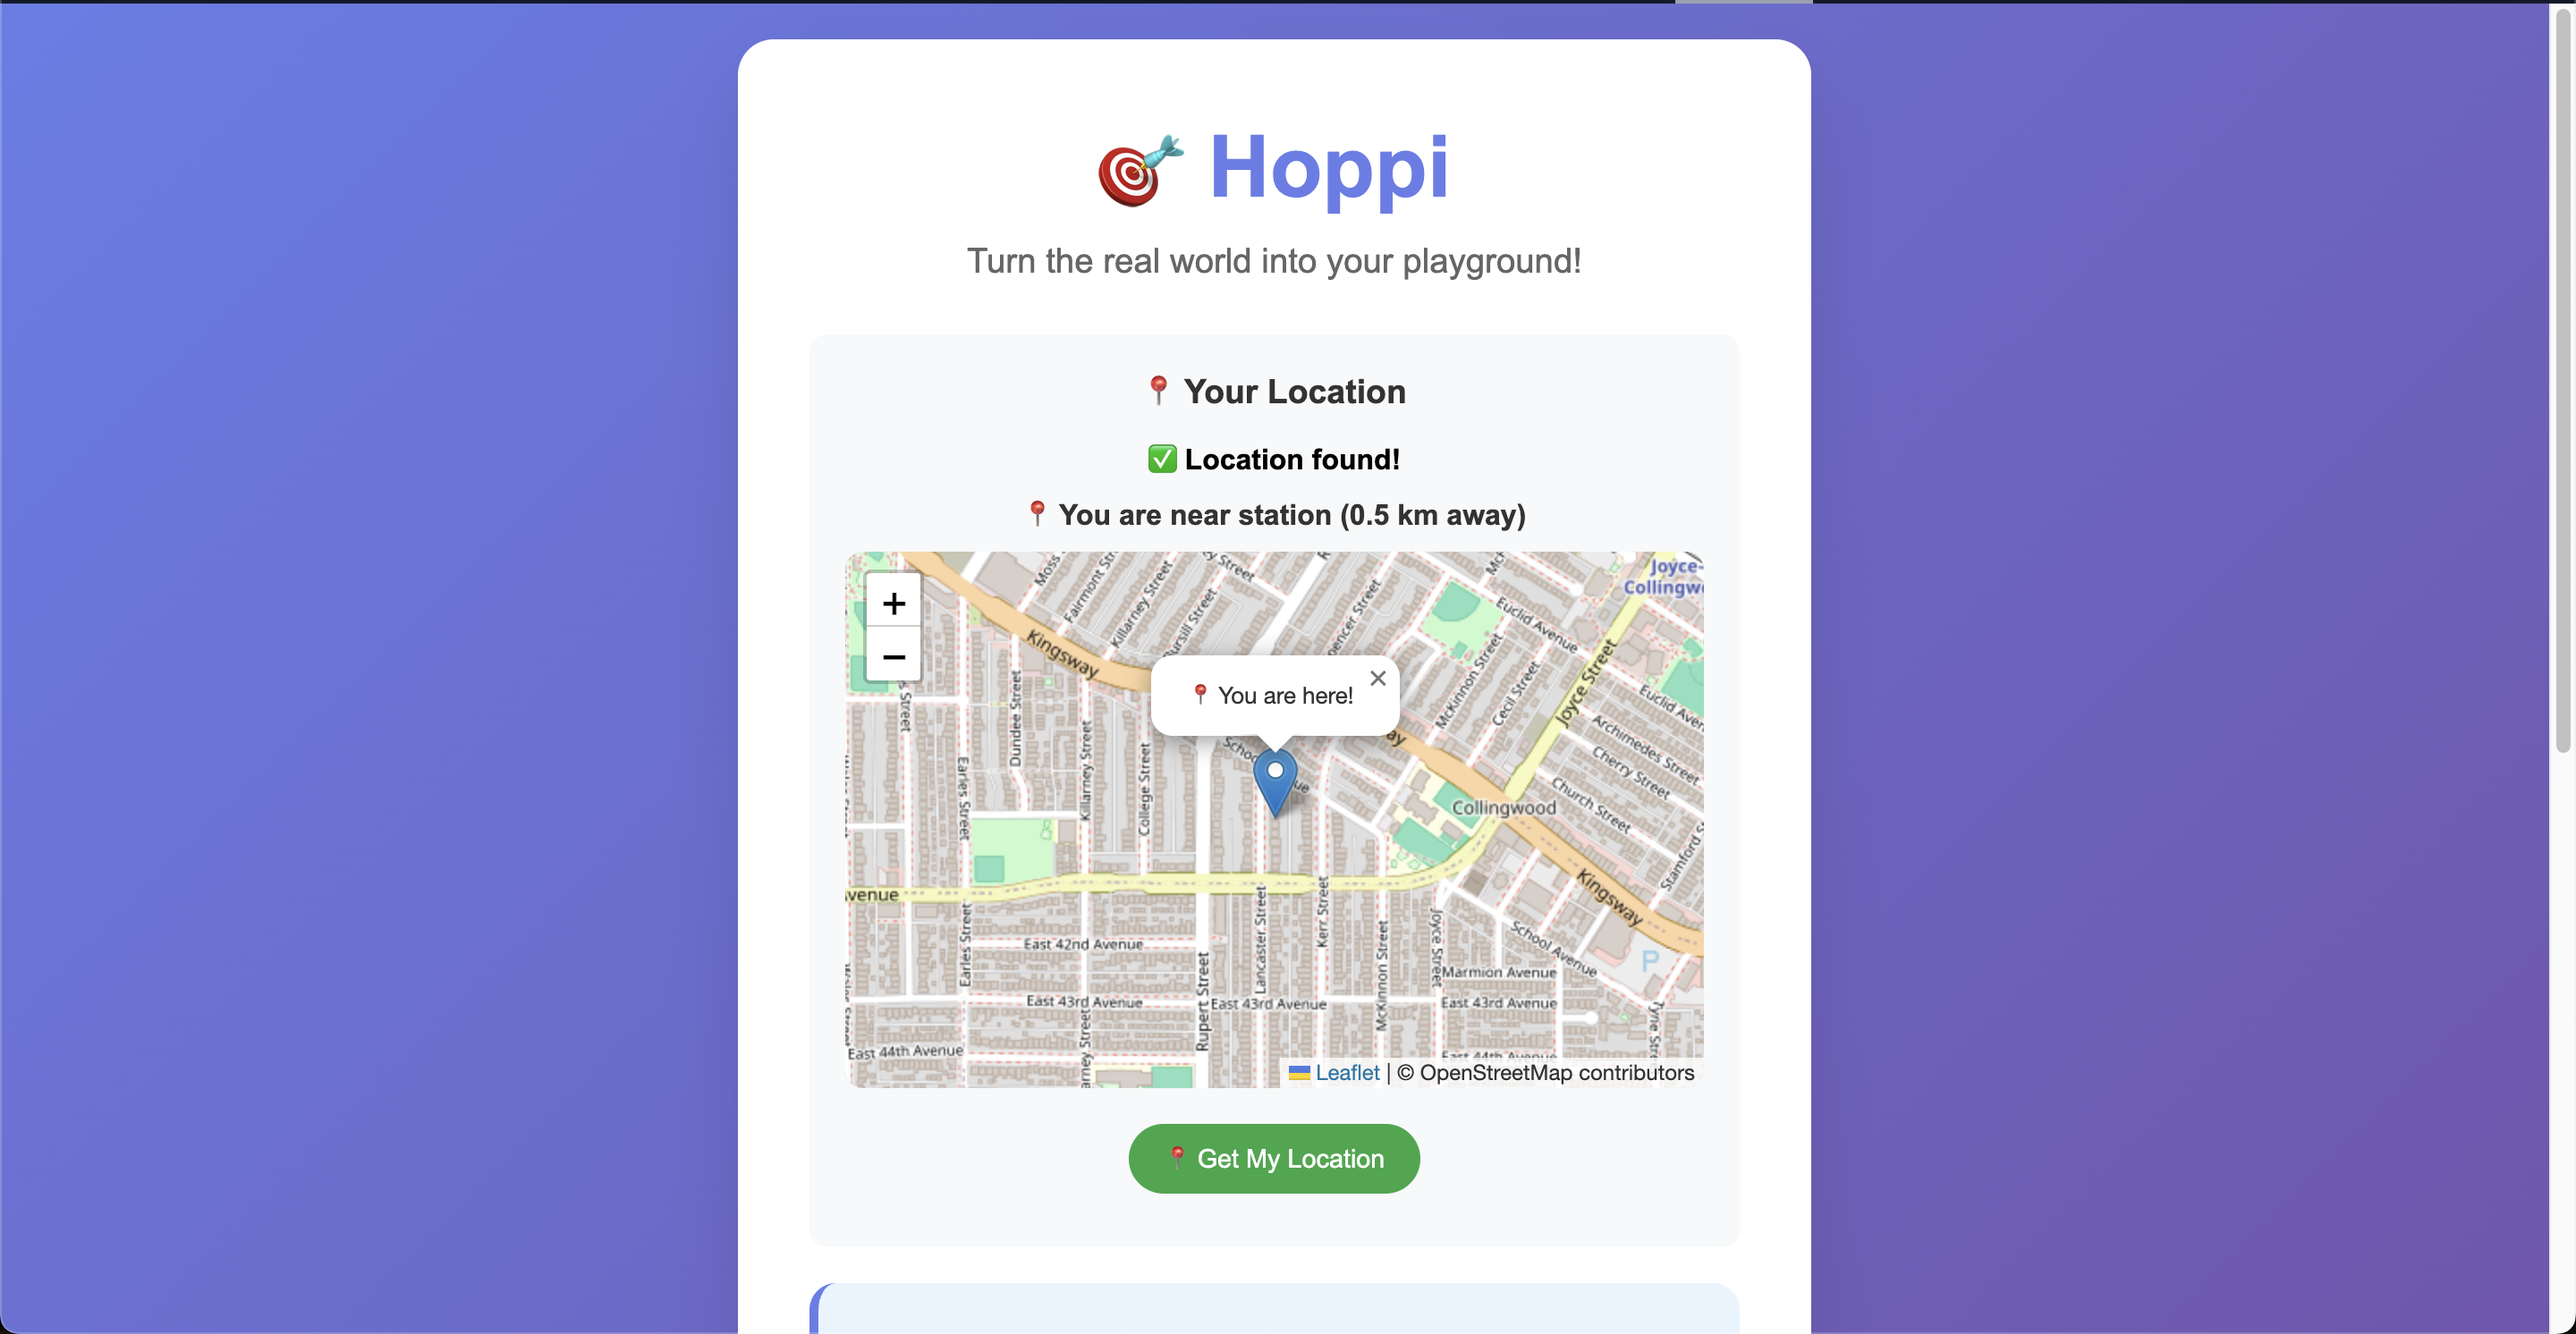
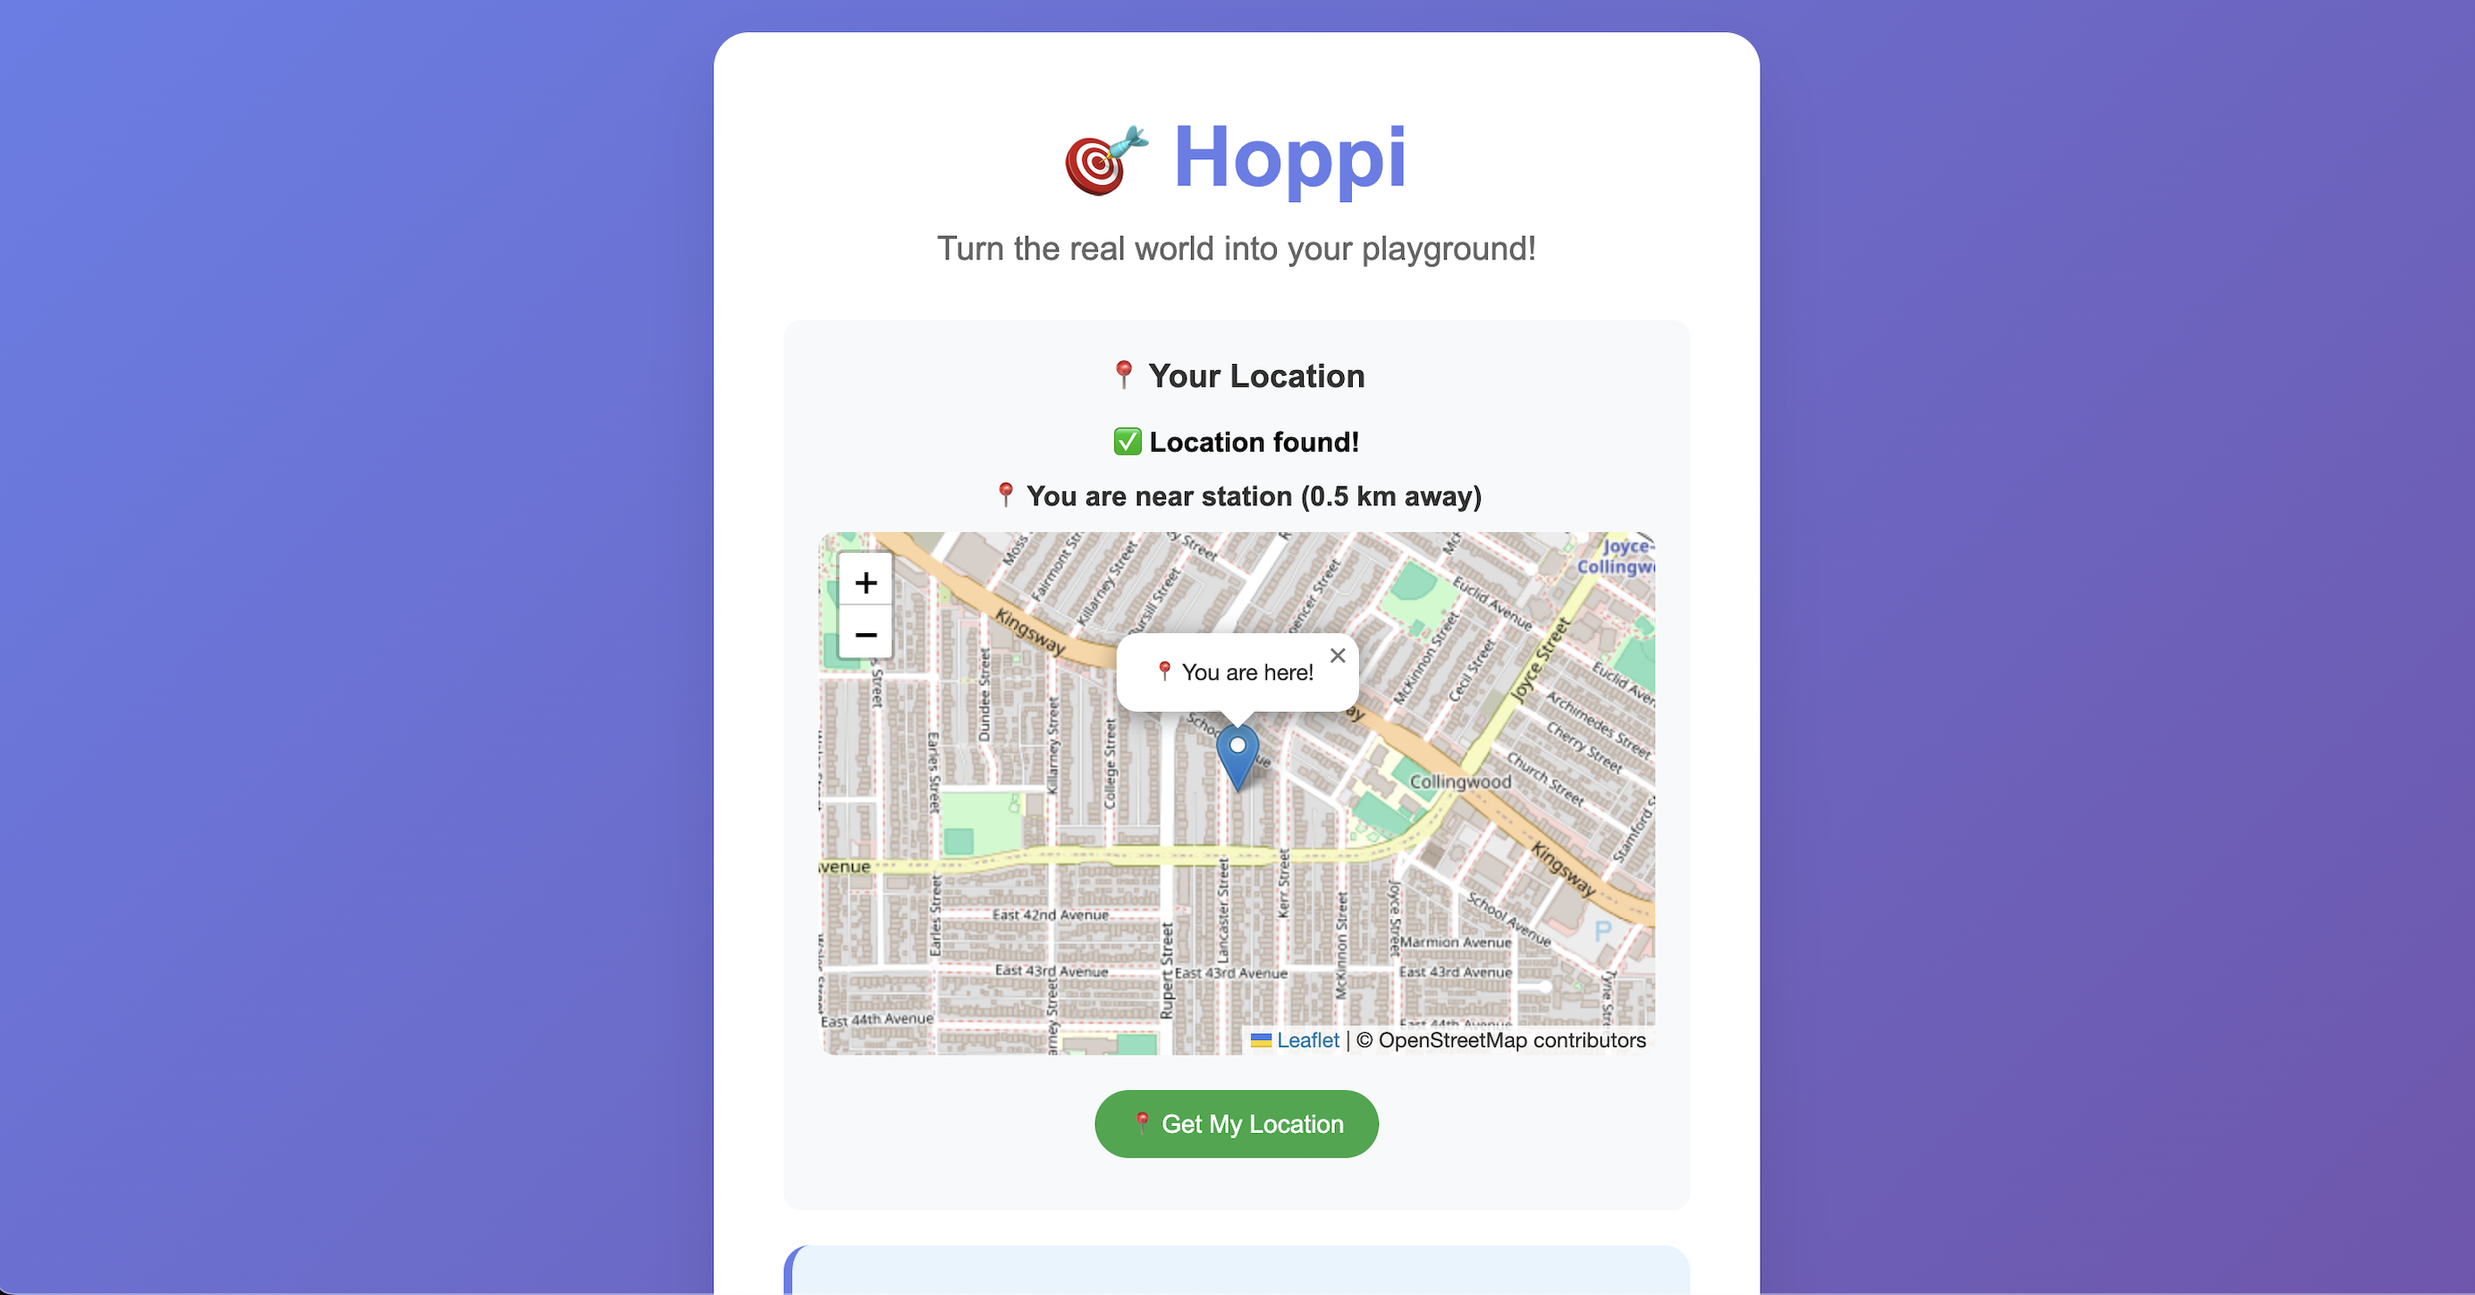
Update README.md and add assets for documentation

diff --git a/README.md b/README.md
@@ -6,8 +6,8 @@
 
 🔗 **Live Demo:** [Try Hoppi here](https://huggingface.co/spaces/klsin/Hoppi)  
 
-<p align="center">
-  <img src="assets/Cursor_Landing.png" alt="Cursor Landing Page" width="500" style="vertical-align: top;"/>
+<p align="left">
+  <img src="assets/Cursor_Landing.png" alt="Cursor Landing Page" width="650" style="vertical-align: top;"/>
 </p>
 
 ---
